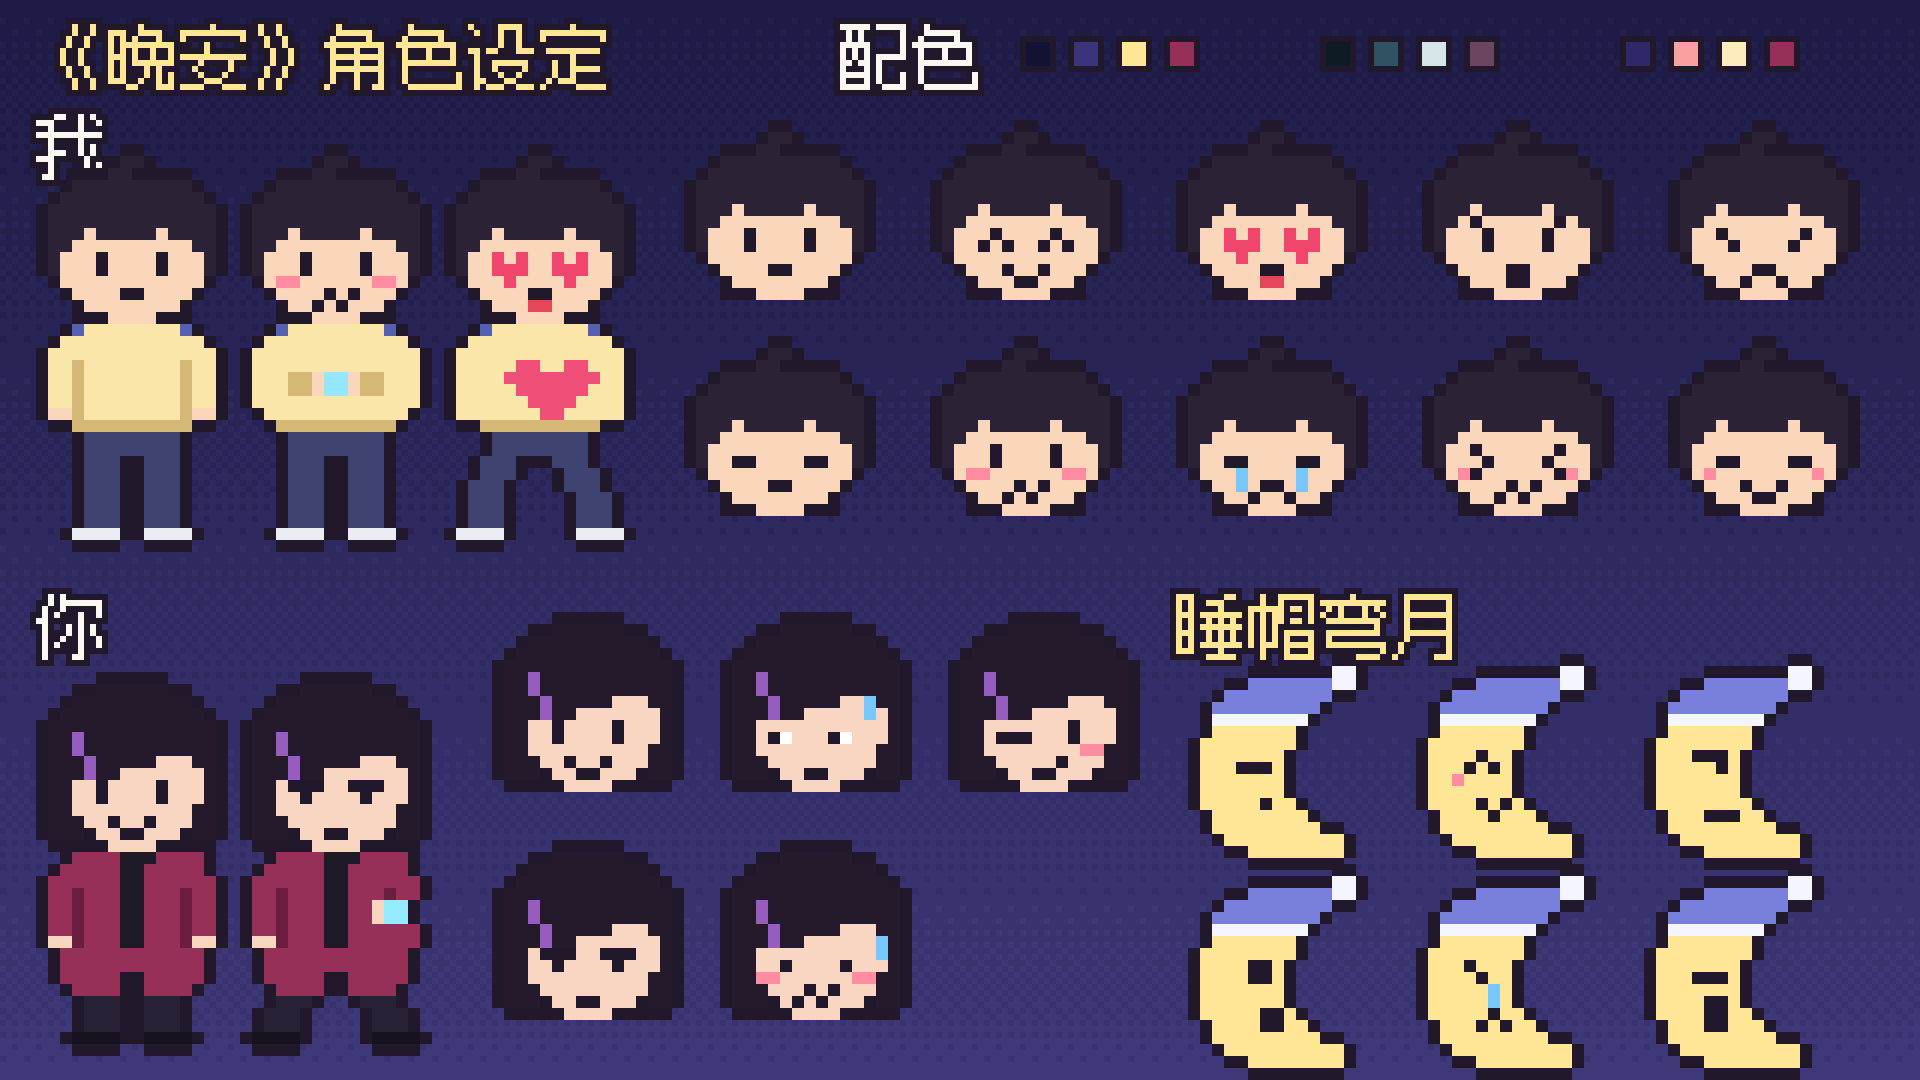
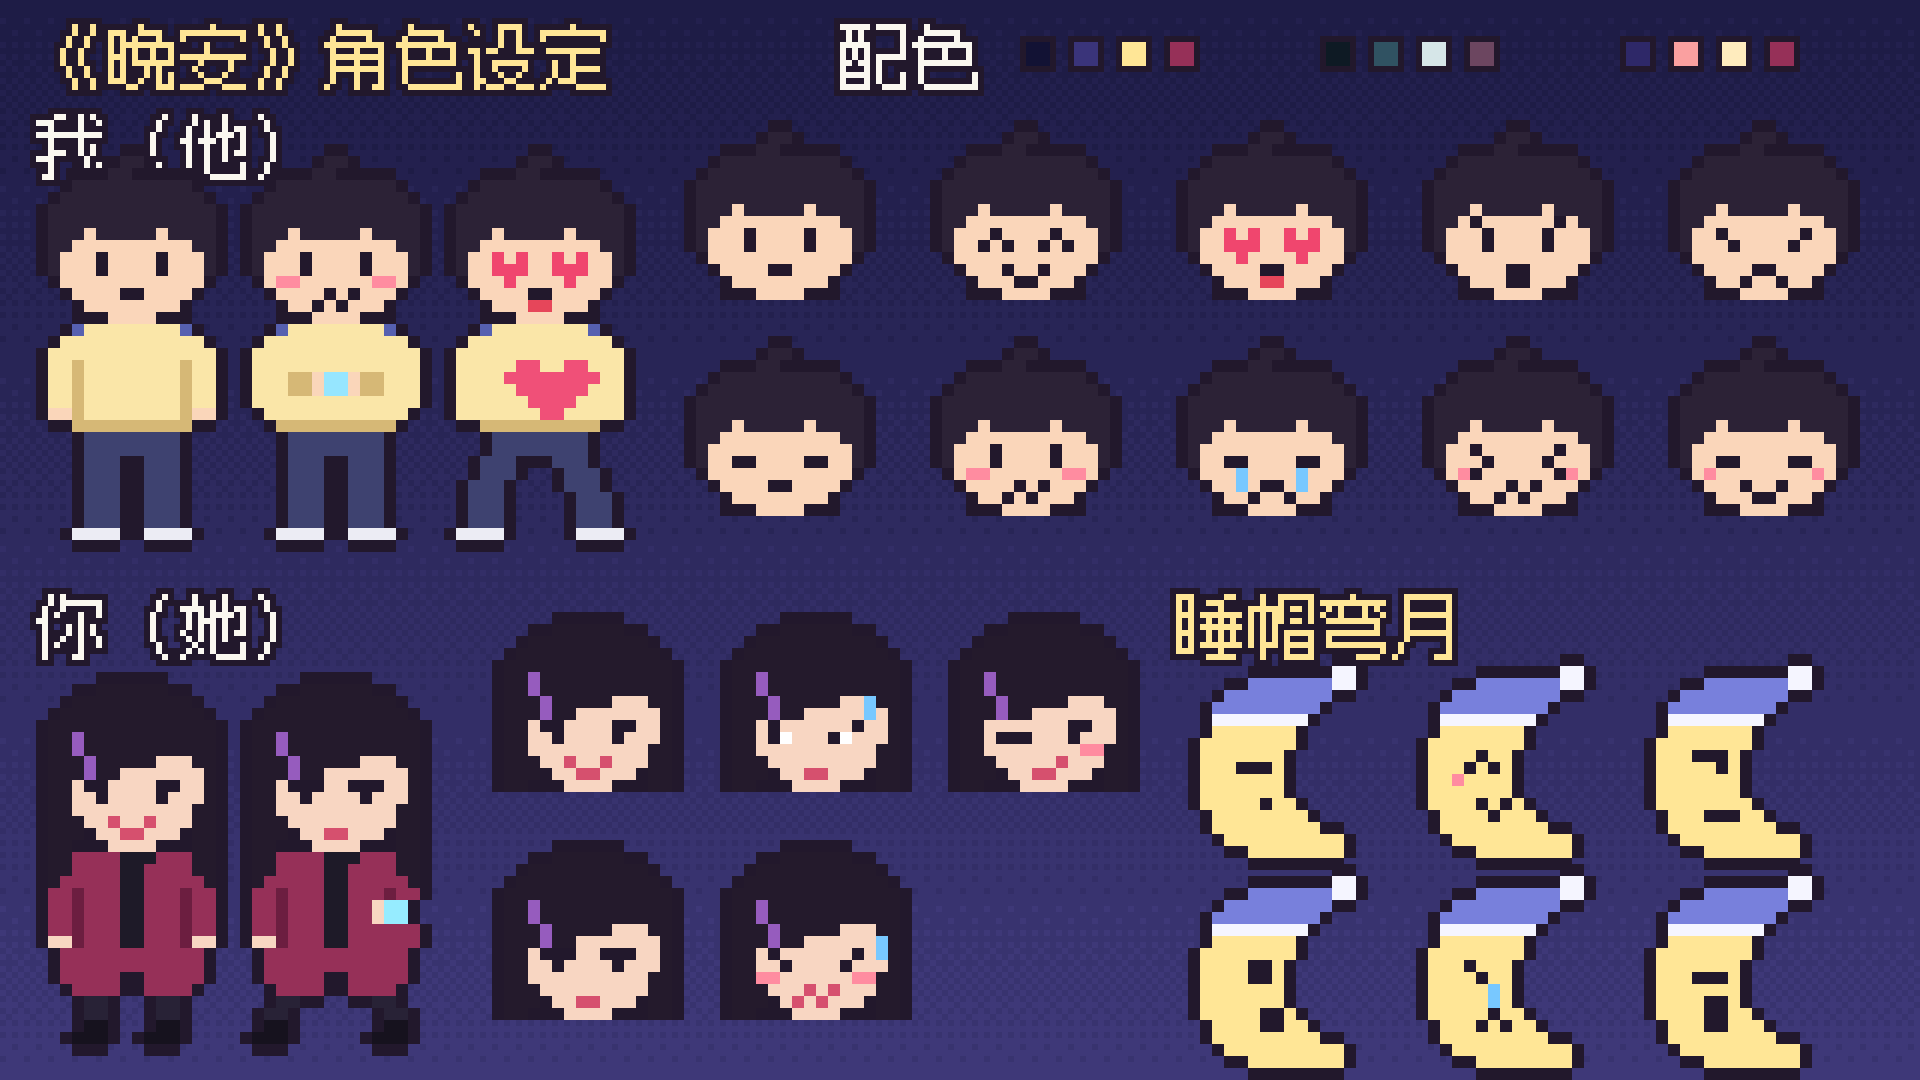
《晚安》MV：确认“我”为男生，“你”改为女生设定（长发、唇色、短靴）
Claude-Session: https://claude.ai/code/session_01SUNum1apB5Q6FGTt2x9JyF

diff --git a/mv/wanan/mv.py b/mv/wanan/mv.py
@@ -140,7 +140,7 @@ LEAD_LEGS = {
 LEAD_PAL = {'h': (44, 34, 54), 's': (250, 214, 186), 'w': (250, 230, 168), 'd': (214, 184, 118), 'e': (86, 96, 176),
             'p': (62, 66, 112), 'b': (236, 236, 244), 'g': (150, 230, 255), 'r': (240, 80, 120)}
 
-# 你：斜刘海遮住半边眉眼（“眼神逃避”）+ 一缕紫色挑染 + 酒红长大衣 + 永远亮着的手机。
+# 你（女生）：过肩长发 + 斜刘海遮住半边眉眼（“眼神逃避”）+ 一缕紫色挑染 + 酒红长大衣 + 短靴 + 永远亮着的手机。
 YOU_HEAD = '''
 .....hhhhhh.....
 ...hhhhhhhhhh...
@@ -158,10 +158,10 @@ YOU_HEAD = '''
 '''
 YOU_TORSO = {
     'idle': '''
-......ssss......
-...cccciiicccc..
-..ccccciiccccc..
-.cccccciicccccc.
+.hh...ssss...hh.
+.hhcccciiiccchh.
+.hhcccciicccchh.
+.hccccciiccccch.
 .ccdccciicccdcc.
 .ccdccciicccdcc.
 .ccdccciicccdcc.
@@ -173,10 +173,10 @@ YOU_TORSO = {
 ...cccc..cccc...
 ''',
     'phone': '''
-......ssss......
-...cccciiicccc..
-..ccccciiccccc..
-.cccccciicccccc.
+.hh...ssss...hh.
+.hhcccciiiccchh.
+.hhcccciicccchh.
+.hccccciiccccch.
 .ccdccciicccdcc.
 .ccdccciiccsgg..
 .ccdccciiccsgg..
@@ -190,16 +190,16 @@ YOU_TORSO = {
 }
 YOU_LEGS = {
     'stand': '''
-....lll..lll....
-....lll..lll....
-....lll..lll....
-...bbbb..bbbb...
+....ll....ll....
+....ll....ll....
+....bb....bb....
+...bbb...bbb....
 ''',
     'walk': '''
-...lll....lll...
-..lll......lll..
-..lll......lll..
-.bbbb......bbbb.
+...ll......ll...
+..ll........ll..
+..bb........bb..
+.bbb.......bbb..
 ''',
 }
 YOU_PAL = {'h': (36, 26, 44), 'v': (150, 92, 190), 's': (248, 214, 194), 'c': (150, 48, 88), 'd': (108, 30, 64),
@@ -249,12 +249,13 @@ LEAD_FACES = {
     'awk': [(4, 8), (5, 9), (4, 10), (11, 8), (10, 9), (11, 10), (3, 10, BLUSH_C), (12, 10, BLUSH_C), (6, 12), (7, 11), (8, 12), (9, 11)],
     'calm': [(4, 9), (5, 9), (10, 9), (11, 9), (6, 11), (7, 12), (8, 12), (9, 11), (3, 10, BLUSH_C), (12, 10, BLUSH_C)],
 }
+LIP_C = (214, 80, 110)
 YOU_FACES = {
-    'smile': [(5, 8), (5, 9), (10, 8), (10, 9), (6, 11), (7, 12), (8, 12), (9, 11)],
-    'side': [(4, 9), (5, 9, WHITE_C), (9, 9), (10, 9, WHITE_C), (7, 12), (8, 12), (12, 6, TEAR_C), (12, 7, TEAR_C)],
-    'wink': [(4, 9), (5, 9), (6, 9), (10, 8), (10, 9), (7, 12), (8, 12), (9, 11), (11, 10, BLUSH_C), (12, 10, BLUSH_C)],
-    'bored': [(4, 8), (5, 8), (6, 8), (5, 9), (9, 8), (10, 8), (11, 8), (10, 9), (7, 12), (8, 12)],
-    'awk': [(5, 9), (10, 9), (6, 12), (7, 11), (8, 12), (9, 11), (3, 10, BLUSH_C), (4, 10, BLUSH_C), (11, 10, BLUSH_C), (12, 10, BLUSH_C), (13, 7, TEAR_C), (13, 8, TEAR_C)],
+    'smile': [(4, 8), (5, 8), (5, 9), (10, 8), (11, 8), (10, 9), (6, 11, LIP_C), (7, 12, LIP_C), (8, 12, LIP_C), (9, 11, LIP_C)],
+    'side': [(4, 8), (4, 9), (5, 9, WHITE_C), (9, 9), (10, 9, WHITE_C), (11, 8), (7, 12, LIP_C), (8, 12, LIP_C), (12, 6, TEAR_C), (12, 7, TEAR_C)],
+    'wink': [(4, 9), (5, 9), (6, 9), (10, 8), (11, 8), (10, 9), (7, 12, LIP_C), (8, 12, LIP_C), (9, 11, LIP_C), (11, 10, BLUSH_C), (12, 10, BLUSH_C)],
+    'bored': [(4, 8), (5, 8), (6, 8), (5, 9), (9, 8), (10, 8), (11, 8), (10, 9), (7, 12, LIP_C), (8, 12, LIP_C)],
+    'awk': [(4, 8), (5, 9), (10, 9), (11, 8), (6, 12, LIP_C), (7, 11, LIP_C), (8, 12, LIP_C), (9, 11, LIP_C), (3, 10, BLUSH_C), (4, 10, BLUSH_C), (11, 10, BLUSH_C), (12, 10, BLUSH_C), (13, 7, TEAR_C), (13, 8, TEAR_C)],
 }
 MOON_FACES = {
     'sleep': [(3, 8), (4, 8), (5, 8), (5, 11)],
@@ -333,7 +334,7 @@ def you_head(img, x, y, expr, scale=2):
     put(img, spr, x, y, scale, 1, anchor='topleft')
 
 
-CAST = {'me': '我', 'you': '你（多情人）', 'moon': '睡帽弯月'}
+CAST = {'me': '我（男生）', 'you': '你（女生·多情人）', 'moon': '睡帽弯月'}
 
 
 def CAST_SHEET(img, t):
@@ -341,7 +342,7 @@ def CAST_SHEET(img, t):
     img.paste(Image.fromarray(dither_grad(H, W, (30, 28, 70), (62, 56, 120))), (0, 0))
     draw_text(img, 6, 3, '《晚安》角色设定', (255, 230, 150), outline=INK_C)
     # 我
-    draw_text(img, 6, 18, '我', WHITE, outline=INK_C)
+    draw_text(img, 6, 18, '我（他）', WHITE, outline=INK_C)
     ph = int(t * 2) % 2
     lead(img, 22, 92, 'idle', 'neutral')
     lead(img, 56, 92, 'phone', 'blush')
@@ -349,7 +350,7 @@ def CAST_SHEET(img, t):
     for i, e in enumerate(['neutral', 'happy', 'heart', 'shock', 'sad', 'closed', 'blush', 'cry', 'awk', 'calm']):
         lead_head(img, 112 + (i % 5) * 41, 20 + (i // 5) * 36, e, 2)
     # 你
-    draw_text(img, 6, 98, '你', WHITE, outline=INK_C)
+    draw_text(img, 6, 98, '你（她）', WHITE, outline=INK_C)
     you(img, 22, 176, 'idle', 'smile', 1)
     you(img, 56, 176, 'phone', 'bored', 1, walk=True, t=t)
     for i, e in enumerate(['smile', 'side', 'wink', 'bored', 'awk']):

diff --git a/mv/wanan/分镜说明.md b/mv/wanan/分镜说明.md
@@ -3,7 +3,7 @@
 > 像素二创 MV，非官方作品。歌词读自用户提供的歌词视频字幕（35 句，时间轴取自原视频）。
 
 ## 歌曲说明
-- **谁对谁说**：“我”对“你”。“你”是个多情人，晚安说得很随手；“我”明知道还是一次次被这句晚安拿捏。
+- **谁对谁说**：“我”（男生，词作者视角）对“你”（女生）。“你”是个多情人，晚安说得很随手；“我”明知道还是一次次被这句晚安拿捏。
 - **一句话讲这首歌**：深夜在暧昧里等一句晚安 → 热情慢慢褪成陌路 → 明知自找难堪，还是放不下。
 - **情绪转折**：「到现在热情 褪成陌路的感叹」开始从上头转向清醒；「迂回一句晚安 多情人却自找难堪」是每轮副歌的落点。
 - **段落**（总长 4:41）：
@@ -33,12 +33,11 @@
 - **角色比例**：≈3 头身。R&B 流行歌的日常感，同时保证 1 像素的五官在 320×180 画面里能看清表情。情歌要靠表情演。
 
 ## 角色与贯穿物件（见 `cover/角色设定.png / .gif`）
-- **我**：乱翘的呆毛，脖子上挂着靛蓝耳机（听 R&B 的夜猫子），宽松的月光奶黄毛衣。
+- **我（男生）**：乱翘的呆毛，脖子上挂着靛蓝耳机（听 R&B 的夜猫子），宽松的月光奶黄毛衣。
   - 动作：站立、捧手机、挥手、心形毛衣（“着迷”变身），走路两帧。
   - 表情 10 种：平静、开心、心心眼、震惊、难过、闭眼、脸红、哭、难堪（><）、释然。
-- **你（多情人）**：斜刘海遮住半边眉眼，对应「眼神逃避」；一缕紫色挑染，酒红长大衣，手里永远亮着手机。
+- **你（女生，多情人）**：过肩长发，斜刘海遮住半边眉眼，对应「眼神逃避」；一缕紫色挑染，酒红长大衣配短靴，淡红唇色，手里永远亮着手机。
   - 表情 5 种：微笑、眼神逃避（瞳孔斜到一边 + 汗）、wink、敷衍脸（半睁眼）、尴尬。
-  - 性别刻意做得中性，不点明是男是女。
 - **贯穿配角：睡帽弯月**。「窗挡住月色」里的那枚月亮，戴蓝色睡帽。
   - 戏路：前奏打哈欠想睡 → 被窗帘挡住只能探头偷看 → 副歌里翻白眼吐槽、陪哭 → 桥段里催“我”睡觉 → 结尾“我”终于跟它说晚安，它脸红，摘下睡帽落下，换太阳上班。
   - 表情 8 种：睡、开心、白眼、震惊、难过（掉泪）、坏笑、脸红、哈欠。
@@ -65,7 +64,7 @@
 | 1:03.9 | 何必拿真心/与寂寞去纠缠 | 卧室，冷光 | 我双手捧着一颗发光的心，委屈 | 一团灰色毛线鬼「寂寞」绕上来，线越缠越乱；「何必呢」 | 弯月 OS：「何必呢」 | 真心＝心，纠缠＝毛线缠住 |
 | 1:11.7 | 几人份的畅谈/道三两句晚安 | 你的手机屏幕，三个聊天窗并排 | 你单手按 Ctrl+C / Ctrl+V，敷衍脸 | 三个窗口同时弹出「晚安」，系统提示「已发送 ×3」 | 第三个窗口的头像是我的呆毛，闪一下 | 几人份＝三个窗口，三两句晚安＝复制粘贴 |
 | 1:16.3 | 惹多情的遐想/却轻易地走散 | 十字路口 | 我头顶的想象泡泡：牵手看月亮；泡泡“啵”地破掉，两人往相反方向走 | 系统提示「对方已走散」 | 弯月：「啧」 | 遐想＝泡泡，走散＝背对背走远 |
-| 1:21.3 | 情意绵绵总与/见异思迁为难 | 综艺舞台，聚光灯 | 我抱着一团长长的毛线（绵绵）递过去；你眼前的老虎机在转 | 老虎机三格转出「她 / 他 / TA」，就是停不到我；「见异思迁」 | 弯月 OS：「又换了」 | 绵绵＝长毛线，见异思迁＝老虎机换目标 |
+| 1:21.3 | 情意绵绵总与/见异思迁为难 | 综艺舞台，聚光灯 | 我抱着一团长长的毛线（绵绵）递过去；你眼前的老虎机在转 | 老虎机三格转出不同男生的头像「A / B / C」，就是停不到我；「见异思迁」 | 弯月 OS：「又换了」 | 绵绵＝长毛线，见异思迁＝老虎机换目标 |
 | 1:29.5 | 总是不能抵抗/你信手的晚安 | 左右分屏：左边你躺沙发单手随手一按；右边我在床上抱臂 | 我：「今天不回了」→ 手机一亮立刻回复，脸红 | 防线 HP 条 100 → 0，弹出「K.O.」 | 弯月捂眼 | 信手＝单手随手，不能抵抗＝防线被打穿 |
 | 1:34.0 | 执迷与你/忽远忽近烂桥段 | 一座断了的像素桥（字面的“烂桥段”） | 你在桥那头忽大忽小（忽远忽近）；我站在断口边 | 场记板「烂桥段 第 N 次」咔！ | 弯月当导演拿喇叭 | 双关：烂桥段＝烂掉的桥 + 老套剧情 |
 | 1:38.7 | 迂回一句晚安/多情人却自找难堪 | 迷宫俯视图 | 一封「晚安」信封沿迷宫绕来绕去，终于到我手上；我抱着手机开心 → 盖章「自找难堪」后脸埋进枕头 | 「迂回」路径；盖章「自找难堪」 | 弯月叹气、脸红 | 迂回＝迷宫，难堪＝盖章 + 埋脸 |
@@ -80,7 +79,7 @@
 
 ## 画面里自己编的梗（请确认可用）
 - “你”**复制粘贴群发晚安**（三个聊天窗、「已发送 ×3」）：从「几人份的畅谈 道三两句晚安」引申，暗示“你”同时跟好几个人暧昧。
-- 老虎机转出的「她 / 他 / TA」：表示“你”在换暧昧对象，不指向任何真人。
+- 老虎机转出的头像「A / B / C」：表示她在换暧昧对象，都是无名路人头像，不指向任何真人。
 - 「防线 HP → K.O.」「着迷值 99%」「长夜 加载中 3%」「获得：感情 ×1」：都是游戏或系统梗。
 - 结尾改写：“我”开勿扰模式、先跟月亮说晚安，“你”的晚安被弹回、换“你”难堪。
 - 回放段弹幕（暂定）：「又来了」「月亮都看不下去」「清醒一点!!」「别回!!」「回了，还秒回」。
